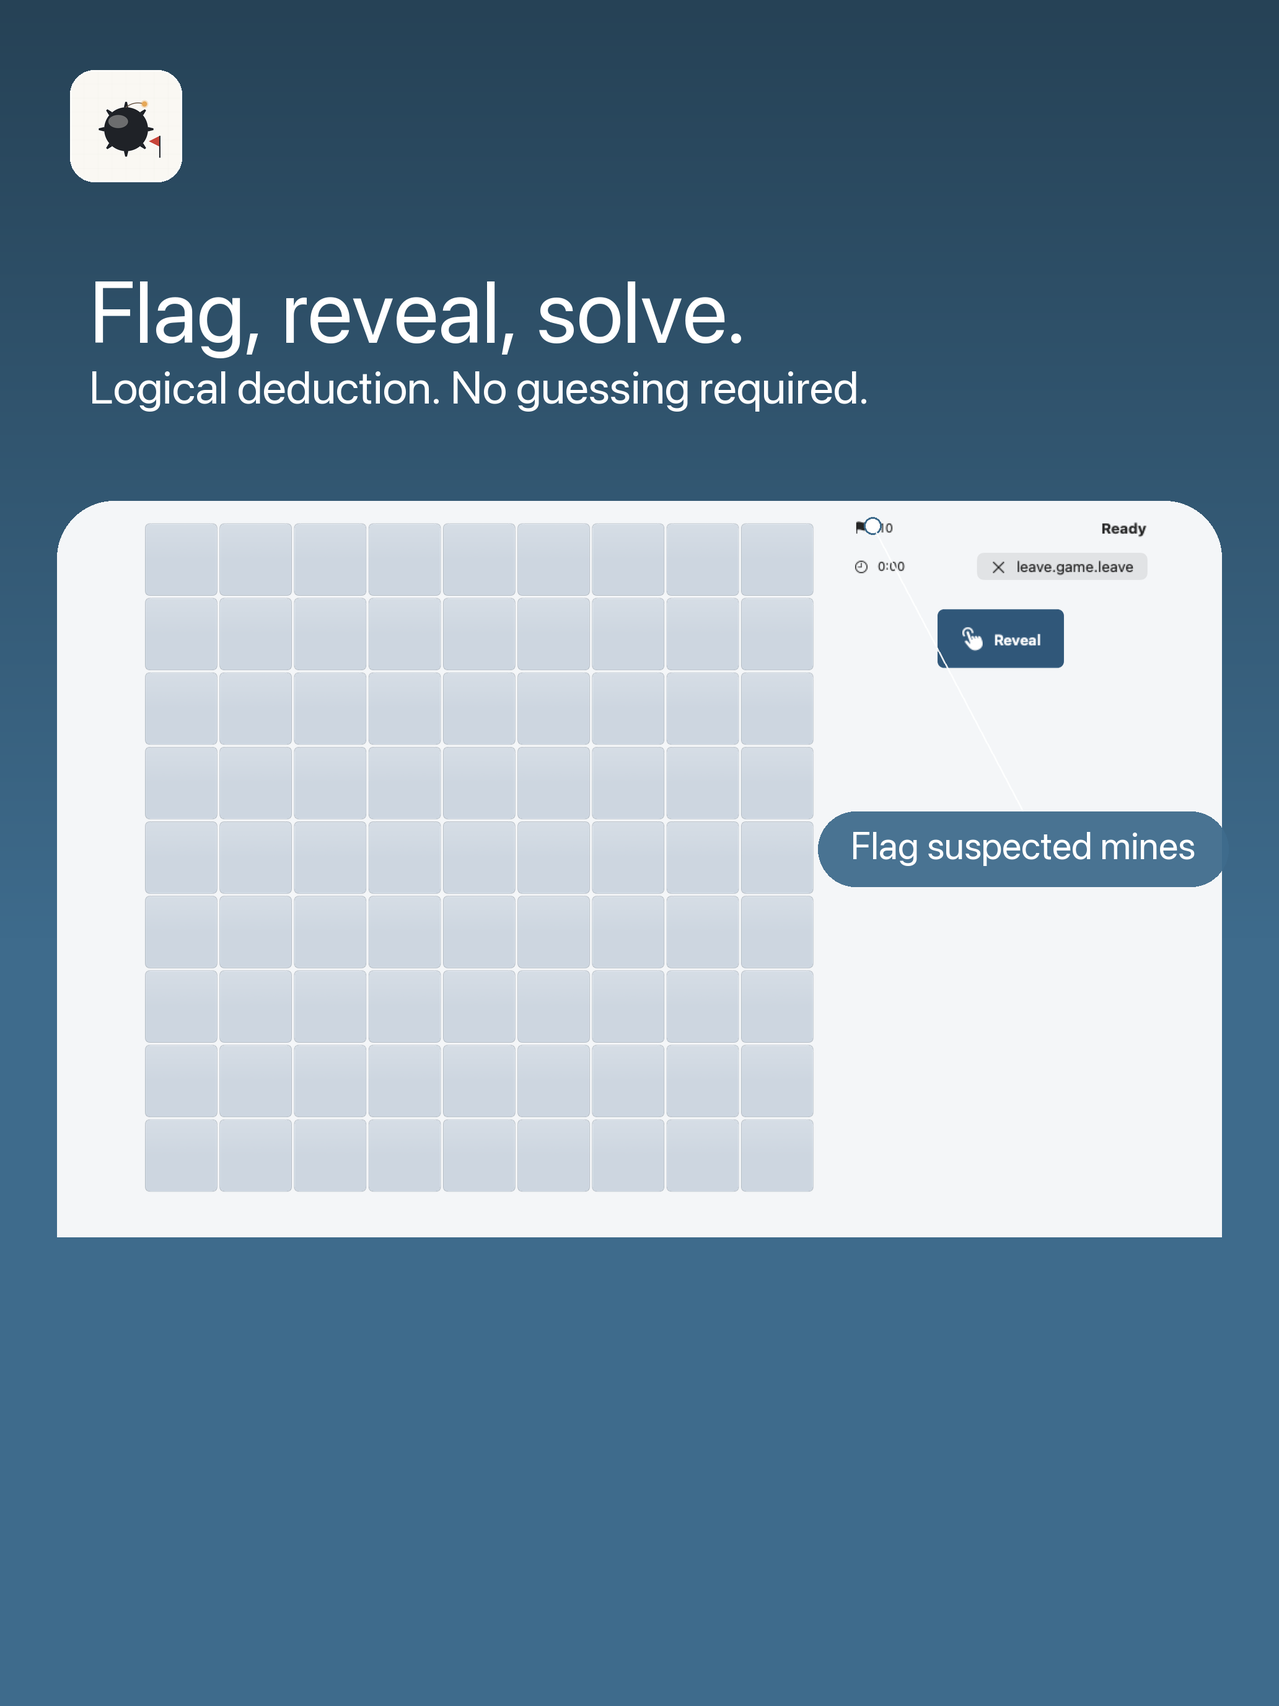
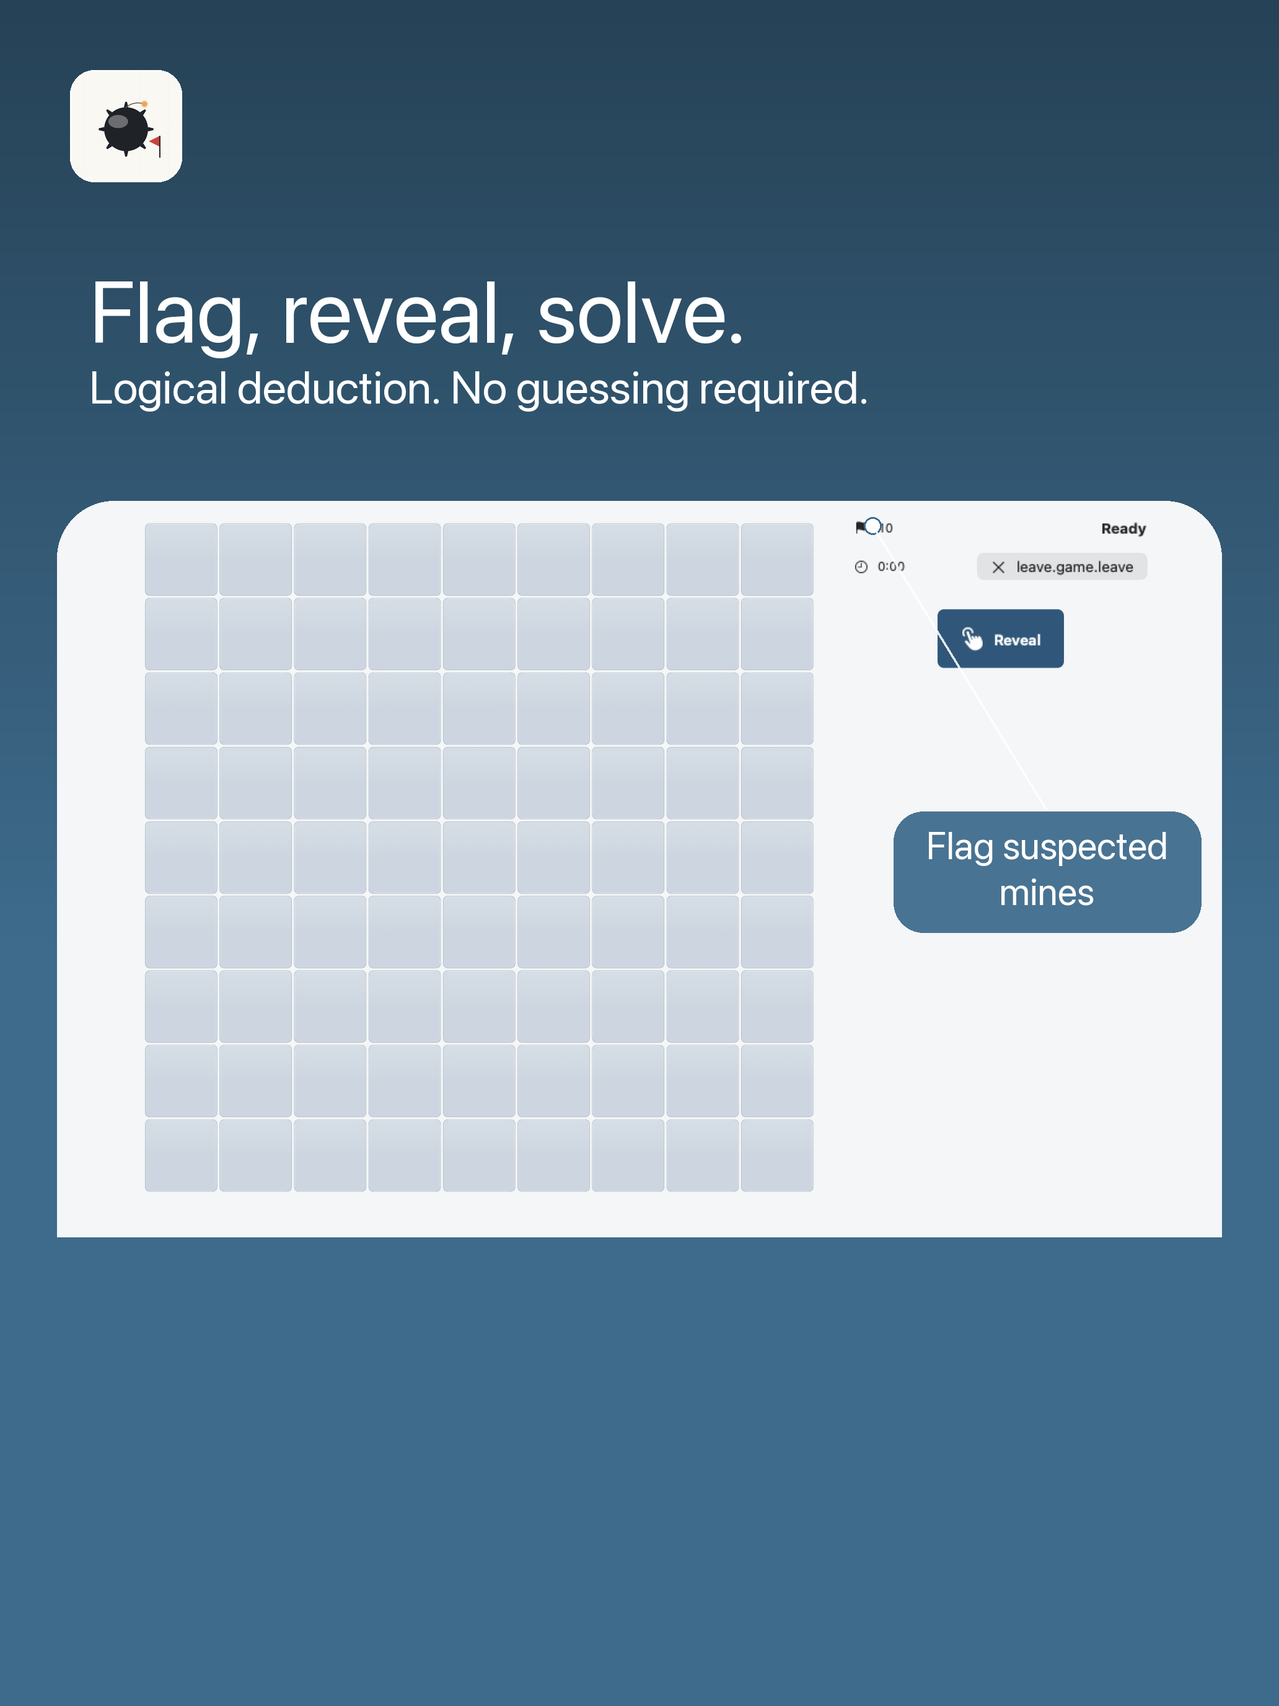
fix(store): #967 ja/th daily copy, fuller fixtures, chip overflow
- ja/th Daily Hub subhead now matches the shipped Easy/Medium/Hard
  strings (Localizable.xcstrings): ja やさしい・ふつう・むずかしい,
  th ปานกลาง for Medium instead of the shortened กลาง.
- Audited every slot's baseline fixture against its snapshot-suite
  siblings for a fuller, still-honest state: Sudoku Daily Hub (iPhone)
  and Minesweeper Daily Hub (iPhone) swap to their streak/all-done
  fixtures; Minesweeper Completion (iPhone) swaps to the daily-reminder
  fixture. Board/Completion fixtures with a message-relevant reason to
  stay (Sudoku Board's error-highlight demo) were left alone; iPad and
  Home slots had no honest fuller candidate and are documented as such.
- The Completion fixture swap moved MS iPhone's Direction-B callout
  anchor onto the new reminder row's text; re-measured and fixed.
- Re-verifying every locale (not just en) found MS iPad Board's callout
  chip overlapping the grid for ja/es/th — those labels are wider than
  the available column space that only en's shorter label fit by
  accident. draw_callout_chip() gained an optional max_width that wraps
  onto a second line (word-split, with a character-split fallback for
  CJK/Thai's space-free scripts).

Full 126-PNG regen verified: dims/RGB/no-alpha sweep green, full-res +
thumbnail visual pass on every changed slot, no tofu, no grid overlap.

Part of #976. Closes #967.

Changed region(s): [[0.6202, 0.4688, 0.9612, 0.5625]]

diff --git a/scripts/build-ascspec-screenshots.py b/scripts/build-ascspec-screenshots.py
@@ -121,10 +121,10 @@ COPY = {
             "en":      ("Three puzzles. Every day.", "Easy, medium, hard — the same world over."),
             "zh-Hant": ("每天三題。世界同題。", "簡單、中等、困難，看你比別人快多少。"),
             "zh-Hans": ("每天三题。世界同题。", "简单、中等、困难，看你比别人快多少。"),
-            "ja":      ("毎日3問。世界中で同じ問題。", "簡単・中級・上級、タイムで世界と並ぶ。"),
+            "ja":      ("毎日3問。世界中で同じ問題。", "やさしい・ふつう・むずかしい、タイムで世界と並ぶ。"),
             "ko":      ("매일 세 문제. 전 세계 동일.", "쉬움, 보통, 어려움 — 시간이 곧 순위."),
             "es":      ("Tres puzles. Cada día.", "Fácil, medio, difícil — los mismos para todos."),
-            "th":      ("สามปริศนา ทุกวัน", "ง่าย กลาง ยาก ชุดเดียวกันทั่วโลก"),
+            "th":      ("สามปริศนา ทุกวัน", "ง่าย ปานกลาง ยาก ชุดเดียวกันทั่วโลก"),
         },
         "03-board": {
             "en":      ("Notes the way you write them.", "Live error highlighting. Twenty steps of undo."),
@@ -252,8 +252,17 @@ CALLOUTS = {
         # with room to spare. iPhone's anchor already has clear space
         # directly below it (verified — the stacked-controls layout puts the
         # grid much lower on that device), so it keeps the default drop.
+        #
+        # `chip_max_w` (iPad only): the "room to spare" comment above was
+        # verified against `en`'s 662px-wide chip only. Re-verifying every
+        # locale (feat/store-screenshots-cb fullness audit's own instruction)
+        # found ja (838px), es (868px) and th (790px) all wider than the
+        # ~772px of actual blank column space measured off the baseline —
+        # long enough to spill left onto the grid's rightmost cells. Capping
+        # at 30% of canvas width forces those into a second line instead.
         "anchor": {"iphone-6.9": (0.092, 0.045), "ipad-13": (0.700, 0.016)},
         "chip_at": {"ipad-13": (0.850, 0.200)},
+        "chip_max_w": {"ipad-13": 0.30},
         "en": "Flag suspected mines", "zh-Hant": "標記可疑地雷", "zh-Hans": "标记可疑地雷",
         "ja": "疑わしいマスに旗を立てる", "ko": "의심되는 칸에 깃발 표시",
         "es": "Marca las minas sospechosas", "th": "ปักธงจุดที่สงสัยว่ามีระเบิด",
@@ -265,7 +274,16 @@ CALLOUTS = {
         # land the chip ON the Close button — anchor to the Close BUTTON's own
         # bottom edge instead (measured the same way), which always has clear
         # canvas below it.
-        "anchor": {"iphone-6.9": (0.500, 0.637), "ipad-13": (0.500, 0.585)},
+        #
+        # iPhone diverges from iPad here because the two devices use DIFFERENT
+        # baseline fixtures (screenshot-fullness audit, feat/store-screenshots-cb):
+        # iPad still uses `win-loaded` (content ends at the Close button, 0.637 —
+        # same as before), but iPhone was swapped to `win-reminder`, which adds a
+        # real "Remind me when tomorrow's boards are ready" row below Close. The
+        # OLD 0.637 anchor (Close button's bottom edge) now lands ON that new
+        # row's text instead of past it — re-measured via detect_content_bottom()
+        # against the win-reminder baseline: content now ends at 0.702, not 0.637.
+        "anchor": {"iphone-6.9": (0.500, 0.702), "ipad-13": (0.500, 0.585)},
         "en": "Every board, timed & ranked", "zh-Hant": "每一局，計時排名", "zh-Hans": "每一局，计时排名",
         "ja": "毎回タイム計測＆ランキング", "ko": "매 판마다 시간 측정 및 순위",
         "es": "Cada tablero, cronometrado y clasificado", "th": "ทุกกระดาน จับเวลาและจัดอันดับ",
@@ -304,7 +322,7 @@ SLOTS = {
     "iphone-6.9": {
         "sudoku": [
             Slot("01-home", "HomeViewTests", "HomeView-iPhone-light", "snapshotIPhoneLight"),
-            Slot("02-daily", "DailyHubViewTests", "DailyHub-iPhone-light-unfinished", "snapshotUnfinishedIPhoneLight"),
+            Slot("02-daily", "DailyHubViewTests", "DailyHub-iPhone-light-allDone", "snapshotAllCompletedIPhoneLight"),
             Slot("03-board", "BoardViewTests", "Board-iPhone-light-inProgress", "snapshotInProgress_iPhone_light"),
             Slot("04-completion", "CompletionViewTests", "Completion-iPhone-light-loaded",
                  "snapshot_authenticatedLoaded_iPhoneLight"),
@@ -313,11 +331,11 @@ SLOTS = {
         ],
         "minesweeper": [
             Slot("01-home", "MinesweeperHomeSnapshotTests", "Home-iPhone-light-compact", "snapshotHome_iPhone_light"),
-            Slot("02-daily", "MinesweeperDailyHubSnapshotTests", "Daily-iPhone-light-compact", "snapshotDaily_iPhone_light"),
+            Slot("02-daily", "MinesweeperDailyHubSnapshotTests", "Daily-iPhone-light-streak2", "snapshotDaily_iPhone_light_streak"),
             Slot("03-board", "MinesweeperBoardSnapshotTests", "Board-iPhone-light-beginner-covered",
                  "snapshotBeginnerCovered_iPhone_light"),
-            Slot("04-completion", "MinesweeperCompletionSnapshotTests", "Completion-iPhone-light-win-loaded",
-                 "snapshotWinLoaded_iPhone_light"),
+            Slot("04-completion", "MinesweeperCompletionSnapshotTests", "Completion-iPhone-light-win-reminder",
+                 "snapshotWinDailyReminder_iPhone_light"),
         ],
     },
     "ipad-13": {
@@ -531,6 +549,7 @@ def draw_callout_chip(
     accent_color: tuple[int, int, int],
     asc_w: int,
     chip_xy: Optional[tuple[int, int]] = None,
+    max_width: Optional[int] = None,
 ) -> None:
     """One Direction-B feature callout: a small dot at the anchor (the actual
     UI feature being called out), a leader line, and a rounded pill chip
@@ -542,7 +561,19 @@ def draw_callout_chip(
     chip instead of assuming "chip sits directly below the dot". When
     omitted, falls back to the original below-anchor default (chip centered
     under the dot, dropped by a fixed offset) for callouts that already have
-    clear space directly beneath their anchor."""
+    clear space directly beneath their anchor.
+
+    `max_width`, when given, caps the chip's own pixel width (independent of
+    the canvas-edge margin clamp below). Some placements are squeezed into a
+    space narrower than the canvas margins allow — MS iPad Board's chip sits
+    in the control column beside the grid, not against the canvas edge — so
+    the generic margin clamp alone doesn't stop a long translated label from
+    spilling sideways onto the grid. Found via a fullness audit
+    (feat/store-screenshots-cb) that swapped in fuller baselines and, per that
+    task's own instruction to re-verify geometry per locale rather than just
+    `en`, caught ja/es/th labels overlapping the MS iPad board grid — `en`'s
+    label was short enough to fit by accident. When the single-line label
+    would exceed `max_width`, it wraps onto a second line instead."""
     draw = ImageDraw.Draw(canvas, "RGBA")
     ax, ay = anchor_xy
 
@@ -552,12 +583,52 @@ def draw_callout_chip(
 
     chip_font = font_for(locale, int(asc_w * 0.030), bold=True)
     tmp = ImageDraw.Draw(Image.new("RGB", (1, 1)))
-    bbox = tmp.textbbox((0, 0), label, font=chip_font)
-    text_w = bbox[2] - bbox[0]
-    text_h = bbox[3] - bbox[1]
     pad_x, pad_y = int(asc_w * 0.026), int(asc_w * 0.016)
+
+    def measure(s: str) -> tuple[int, int, int]:
+        b = tmp.textbbox((0, 0), s, font=chip_font)
+        return b[2] - b[0], b[3] - b[1], b[1]
+
+    text_w, text_h, top_bearing = measure(label)
+    lines = [label]
+    if max_width is not None and text_w + pad_x * 2 > max_width:
+        max_line_w = max_width - pad_x * 2
+        # Word-split first (Latin/Hangul), falling back to a character split
+        # for any "word" that alone exceeds max_line_w — CJK and Thai carry
+        # no spaces at all, so for them the whole label is one "word" and
+        # this fallback is the ONLY thing that wraps it (verified: a
+        # space-only splitter left ja/th completely unwrapped, still
+        # overflowing max_width, since `label.split()` never breaks them).
+        lines, current = [], ""
+        for word in label.split():
+            test = (current + " " + word).strip()
+            if measure(test)[0] <= max_line_w:
+                current = test
+                continue
+            if current:
+                lines.append(current)
+                current = ""
+            if measure(word)[0] <= max_line_w:
+                current = word
+            else:
+                for ch in word:
+                    test = current + ch
+                    if measure(test)[0] <= max_line_w or not current:
+                        current = test
+                    else:
+                        lines.append(current)
+                        current = ch
+        if current:
+            lines.append(current)
+        lines = lines[:2] or [label]  # cap at two lines — a third means the
+        # chip is too narrow for any locale's text and needs a wider slot,
+        # not more wrapping.
+        text_w = max(measure(line)[0] for line in lines)
+        _, text_h, top_bearing = measure(lines[0])
+
+    line_gap = int(text_h * 0.35)
     chip_w = text_w + pad_x * 2
-    chip_h = text_h + pad_y * 2
+    chip_h = text_h * len(lines) + line_gap * (len(lines) - 1) + pad_y * 2
 
     if chip_xy is not None:
         cx, cy = chip_xy
@@ -572,12 +643,15 @@ def draw_callout_chip(
 
     draw.rounded_rectangle(
         (chip_x, chip_y, chip_x + chip_w, chip_y + chip_h),
-        radius=chip_h // 2, fill=(*accent_color, 240)
+        radius=chip_h // len(lines) // 2 if len(lines) > 1 else chip_h // 2,
+        fill=(*accent_color, 240)
     )
-    draw.text(
-        (chip_x + pad_x, chip_y + pad_y - bbox[1]), label,
-        font=chip_font, fill=(255, 255, 255, 255)
-    )
+    ty = chip_y + pad_y - top_bearing
+    for line in lines:
+        line_w = measure(line)[0]
+        tx = chip_x + (chip_w - line_w) // 2
+        draw.text((tx, ty), line, font=chip_font, fill=(255, 255, 255, 255))
+        ty += text_h + line_gap
 
 
 def build_asc_image(baseline_path: Path,
@@ -747,7 +821,10 @@ def build_asc_image(baseline_path: Path,
             if chip_target:
                 cfx, cfy = chip_target
                 chip_xy = (SCREEN_MARGIN + int(cfx * screen_w), SCREEN_TOP + int(cfy * src_h_full * scale))
-            draw_callout_chip(canvas, anchor_xy, label, locale, accent_color, asc_w, chip_xy=chip_xy)
+            chip_max_w_frac = callout.get("chip_max_w", {}).get(device)
+            max_width = int(chip_max_w_frac * asc_w) if chip_max_w_frac else None
+            draw_callout_chip(canvas, anchor_xy, label, locale, accent_color, asc_w,
+                               chip_xy=chip_xy, max_width=max_width)
 
     # ── Final sanity: canvas must be RGB (no alpha) ───────────────────────────
     assert canvas.mode == "RGB", f"Expected RGB, got {canvas.mode}"

diff --git a/docs/app-store/screenshot-strategy.md b/docs/app-store/screenshot-strategy.md
@@ -18,7 +18,7 @@ Screenshot count: **5 shots × 4 device classes × 7 locales = 140 PNG total**.
 | # | Screen | Why this shot | Hero element |
 |---|---|---|---|
 | 1 | Home (4 mode cards, Liquid Glass) | Entry point. Establishes brand: warm paper background, sage accents, Liquid Glass chrome. | Two large cards (Daily, Practice), translucent over warm paper |
-| 2 | Daily Hub (3 difficulties) | The daily ritual hook. One difficulty shown as already completed today to imply progress, not pressure. | Three difficulty rows, one with `✓ 04:32` style timestamp |
+| 2 | Daily Hub (3 difficulties) | The daily ritual hook. All three difficulties shown completed with a 7+ day streak to sell the habit payoff, not the empty-state grind. | Three difficulty rows, all badged done, streak strip up top |
 | 3 | Board mid-game (active grid + sage selected cell) | Core gameplay experience. Shows pencil notes in at least one cell and an active row/col highlight. | 9×9 grid, one selected cell, soft sage highlight band |
 | 4 | Completion (Solved + leaderboard slice) | The payoff moment. Calm "Solved" treatment (no confetti), with a 3-row leaderboard slice underneath showing world ranking. | "Solved" headline, time, top-3 leaderboard rows |
 | 5 | Settings or Leaderboard depth | Differentiator proof — 7 locale picker visible **and** Game Center integration row. iPad/Mac variant emphasizes keyboard hint. | Locale list (7 rows), Game Center status row |
@@ -53,10 +53,10 @@ Each shot has a 2-line overlay: a **headline** (≤ 5 words) and a **subhead** (
 |---|---|---|
 | en | Three puzzles. Every day. | Easy, medium, hard — the same world over. |
 | zh-Hant | 每天三題。世界同題。 | 簡單、中等、困難，看你比別人快多少。 |
-| ja | 毎日3問。世界中で同じ問題。 | 簡単・中級・上級、タイムで世界と並ぶ。 |
+| ja | 毎日3問。世界中で同じ問題。 | やさしい・ふつう・むずかしい、タイムで世界と並ぶ。 |
 | zh-Hans | 每天三题。世界同题。 | 简单、中等、困难，看你比别人快多少。 |
 | es | Tres puzles. Cada día. | Fácil, medio, difícil — los mismos para todos. |
-| th | สามปริศนา ทุกวัน | ง่าย กลาง ยาก ชุดเดียวกันทั่วโลก |
+| th | สามปริศนา ทุกวัน | ง่าย ปานกลาง ยาก ชุดเดียวกันทั่วโลก |
 | ko | 매일 세 문제. 전 세계 동일. | 쉬움, 보통, 어려움 — 시간이 곧 순위. |
 
 ### Shot 3 — Board mid-game
@@ -205,3 +205,85 @@ stays on the single `en`-sourced baseline the pipeline used before this
 redesign. Root cause, byte-identical evidence, and two real fix paths (with
 recommendation) are in #977 — read that before attempting a per-locale
 baseline again.
+
+### #967 — ja/th Daily-Hub vocabulary drift (fixed)
+
+The Shot 2 ja/th subhead had hand-written difficulty terms that didn't match
+the app's own shipped strings. Verified against
+`App/Sudoku/Resources/Localizable.xcstrings` (`Easy`/`Medium`/`Hard` keys) —
+ja: やさしい／ふつう／むずかしい (was 簡単・中級・上級); th: ปานกลาง for
+Medium specifically (was the shortened กลาง; ง่าย/ยาก for Easy/Hard were
+already correct). Table above updated to match; MS's own
+Beginner/Intermediate/Expert scale (a different, already-correct set of
+strings) is untouched.
+
+### Baseline-fixture fullness audit (feat/store-screenshots-cb)
+
+Every slot's baseline choice was re-audited against every sibling fixture in
+its snapshot suite directory, picking the fullest state that's still an
+honest representation of the screen (not a fabricated state) — the
+generator's dead-space crop (`detect_content_bottom()`) fixes layout
+whitespace, but an *empty-content* baseline (all-✕ Daily Hub, blank-slate
+Home) still reads as flat regardless of cropping.
+
+Swapped:
+- **Sudoku Daily Hub (iPhone)**: `unfinished` → `allDone` — 🔥 7+ day streak
+  strip, all three difficulties badged done, vs. seven grey ✕ and three
+  `Best —` rows. Same canvas size, same crop behavior.
+- **Minesweeper Daily Hub (iPhone)**: `compact` → `streak2` — adds a 2-day
+  streak strip above the same Beginner/Intermediate/Expert rows (the
+  Intermediate-done/Expert-Failed badges were already present in `compact`;
+  the swap only adds real positive content, introduces nothing new negative).
+
+Audited, kept as-is (no honest fuller candidate exists):
+- **Both apps, iPad, Daily Hub**: only one baseline exists per app (no
+  streak/all-done iPad variant recorded).
+- **Sudoku Board**: `inProgress` (half-filled grid + one red error cell) is
+  the *message-correct* choice, not the emptiest — the Direction-B callout
+  chip is anchored to that red error cell to sell "catches mistakes
+  instantly" (#979). A fuller-looking `almostComplete` sibling exists but has
+  no error highlighted, which would silently break the callout's claim.
+  Kept `inProgress`.
+- **Sudoku Completion**: `loaded` vs. sibling `noLeaderboard` differ only in
+  `Mistakes: 2` vs. `Mistakes: 0` — same amount of visible content either
+  way, not a fullness gap.
+- **Minesweeper Completion (iPad)**: only `win-loaded` exists (no
+  `win-reminder` iPad variant recorded); iPhone did swap (below).
+- **Both apps, Home (iPhone)**: the `...WithAvatar` sibling is
+  byte-identical to the default baseline in this crop (verified via
+  `ImageChops.difference` — empty diff bbox), so it adds nothing. The
+  `ResumeCandidate` sibling adds a "Resume Easy 3:21" pill but doesn't fix a
+  dead-space defect (the default already fills 5 full menu rows) and risks
+  muddying the "start your daily puzzles" headline with an abandoned-game
+  signal — kept the default.
+- **Both apps, iPad, Home / Board**: single baseline per slot, no sibling to
+  compare.
+
+Swapped separately (Minesweeper Completion, iPhone): `win-loaded` →
+`win-reminder` — adds the real "Remind me when tomorrow's boards are ready"
+notification-opt-in row below the Close button, filling space that was
+previously blank canvas. The Close-button position is pixel-identical
+between the two baselines, but the panel's own content-bottom is NOT (the
+Direction-B callout's iPhone anchor targeted the Close button's bottom edge
+at fraction 0.637 — with `win-reminder`'s added row, that fraction now
+lands mid-text on "Remind me…" instead of past all content). Re-measured
+via `detect_content_bottom()` against the new baseline (0.702) and updated
+the anchor; see the CALLOUTS comment at `("minesweeper", "04-completion")`
+in the script.
+
+### Chip-width overflow — found by re-verifying every locale, not just `en`
+
+Auditing every callout chip across all 7 locales (not just the `en` used to
+verify the previous round, #979) found MS iPad Board's chip overlapping the
+grid's rightmost cells for ja/es/th — those translated labels (790–868px)
+are wider than the ~772px of actual blank column space next to the grid,
+which `en`'s shorter label (662px) happened to fit inside without ever
+exercising the problem. `draw_callout_chip()` gained an optional
+`max_width` that wraps an overflowing label onto a second line (word-split
+for Latin/Hangul, falling back to a character split for CJK/Thai, which
+carry no spaces at all — a space-only splitter left those scripts
+completely unwrapped, since `str.split()` never breaks them). Wired via a
+new `chip_max_w` key in the `CALLOUTS` dict, currently only on
+`("minesweeper", "03-board")`'s `ipad-13` entry — the one placement proven
+to need it; the other three callout slots' available space was re-verified
+per-locale and left alone.
